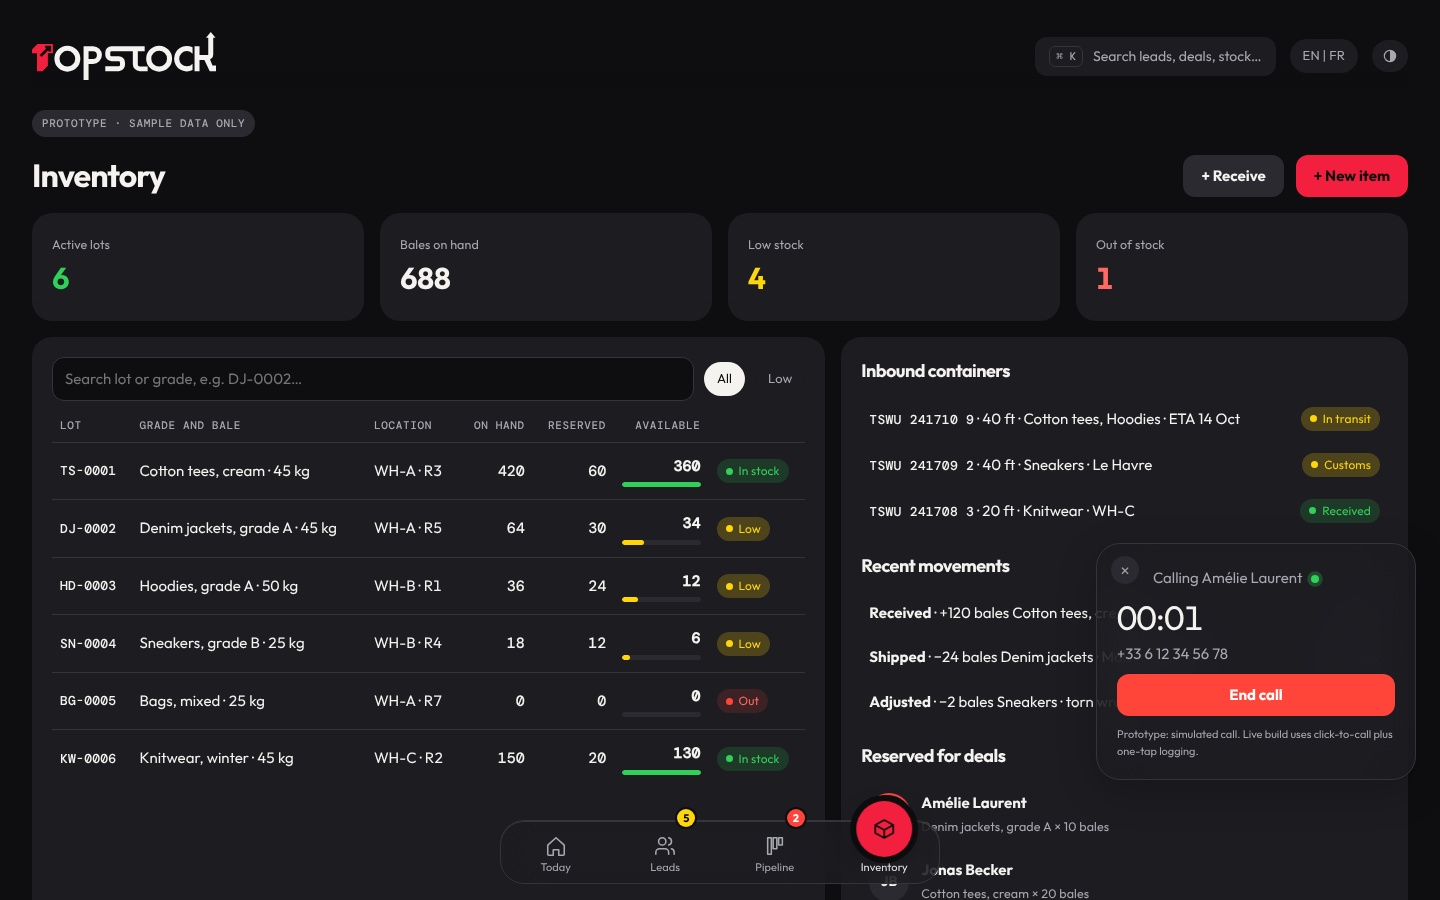
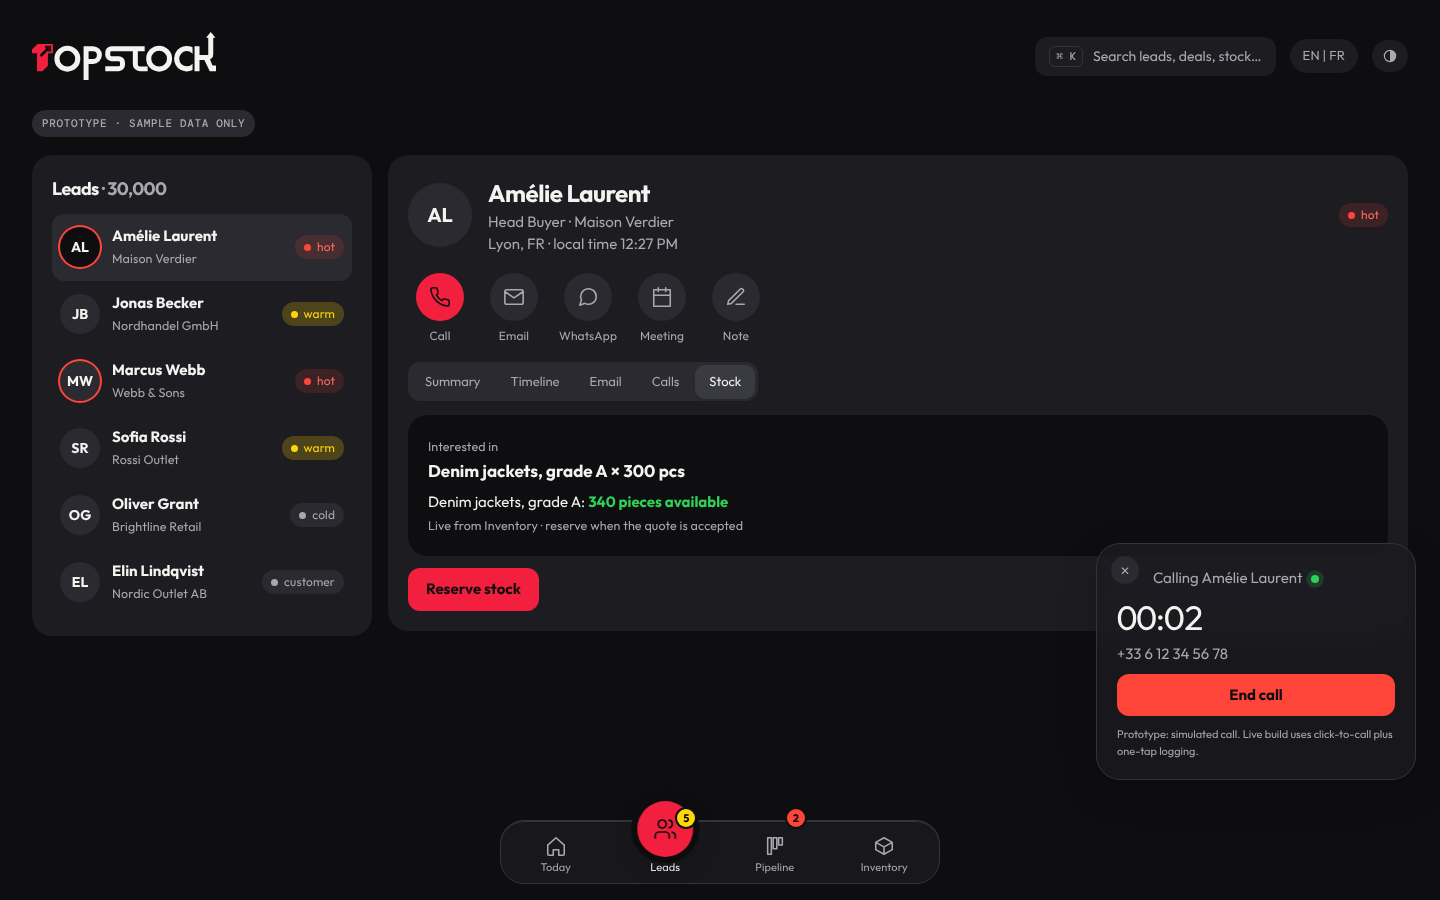
Prototype v4.2: stock sold by the piece, fresh evidence, Haider's brand decisions
Claude-Session: https://claude.ai/code/session_017iY13emXgm4frkkmSZrEnt

diff --git a/docs/prototype/topstock-crm-prototype.html b/docs/prototype/topstock-crm-prototype.html
@@ -253,7 +253,7 @@ td.n .sb{margin-left:auto}
 <div class="grid g4" id="ik" style="margin-bottom:16px"></div>
 <div class="grid g2">
 <div class="card"><div style="display:flex;gap:10px;align-items:center;margin-bottom:8px"><input id="q" name="stock-search" autocomplete="off" aria-label="Search lots" placeholder="Search lot or grade, e.g. DJ-0002…"><span class="chip on">All</span><span class="chip">Low</span></div>
-<div class="wrap"><table><thead><tr><th>Lot</th><th>Grade and bale</th><th>Location</th><th class="n">On hand</th><th class="n">Reserved</th><th class="n">Available</th><th></th></tr></thead><tbody id="rows"></tbody></table></div></div>
+<div class="wrap"><table><thead><tr><th>Lot</th><th>Product and grade</th><th>Location</th><th class="n">On hand</th><th class="n">Reserved</th><th class="n">Available</th><th></th></tr></thead><tbody id="rows"></tbody></table></div></div>
 <div class="card"><h2>Inbound containers</h2><div id="inb"></div>
 <h2 style="margin-top:18px">Recent movements</h2><div id="mv"></div>
 <h2 style="margin-top:18px">Reserved for deals</h2><div id="rs"></div></div>
@@ -300,12 +300,12 @@ $('#theme').onclick=()=>{const r=document.documentElement;r.classList.add('tt');
 function toast(m,u){const t=$('#toast');t.innerHTML=m+(u?'<button id="ud">Undo</button>':'');if(u)$('#ud').onclick=()=>{u();t.classList.remove('on')};t.classList.add('on');clearTimeout(t.h);t.h=setTimeout(()=>t.classList.remove('on'),u?4500:2200)}
 
 const L=[
-{n:'Amélie Laurent',r:'Head Buyer',c:'Maison Verdier',loc:'Lyon, FR',tz:'Europe/Paris',p:'+33 6 12 34 56 78',e:'amelie@maisonverdier.example',t:'hot',v:'€18,400',s:'Negotiations',want:'Denim jackets, grade A × 10 bales',d:3},
-{n:'Jonas Becker',r:'Einkauf',c:'Nordhandel GmbH',loc:'Hamburg, DE',tz:'Europe/Berlin',p:'+49 40 1234 5678',e:'j.becker@nordhandel.example',t:'warm',v:'€9,200',s:'Negotiations',want:'Cotton tees, cream × 20 bales',d:9,stale:1},
-{n:'Marcus Webb',r:'Buyer',c:'Webb & Sons',loc:'Dallas, US',tz:'America/Chicago',p:'+1 214 555 0142',e:'marcus@webbandsons.example',t:'hot',v:'€22,000',s:'Qualified',want:'Hoodies, grade A × 1 container',d:2,direct:1},
-{n:'Sofia Rossi',r:'Owner',c:'Rossi Outlet',loc:'Milan, IT',tz:'Europe/Rome',p:'+39 02 5550 0188',e:'sofia@rossioutlet.example',t:'warm',v:'€6,800',s:'Lead',want:'Sneakers, grade B × 6 bales',d:5},
-{n:'Oliver Grant',r:'Sourcing Lead',c:'Brightline Retail',loc:'Manchester, UK',tz:'Europe/London',p:'+44 161 555 0129',e:'o.grant@brightline.example',t:'cold',v:'€5,200',s:'Lead',want:'Bags, mixed × 8 bales',d:1},
-{n:'Elin Lindqvist',r:'Purchasing',c:'Nordic Outlet AB',loc:'Stockholm, SE',tz:'Europe/Stockholm',p:'+46 8 555 0199',e:'elin@nordicoutlet.example',t:'customer',v:'€11,900',s:'Closed/won',want:'Knitwear, winter × 4 bales',d:0}];
+{n:'Amélie Laurent',r:'Head Buyer',c:'Maison Verdier',loc:'Lyon, FR',tz:'Europe/Paris',p:'+33 6 12 34 56 78',e:'amelie@maisonverdier.example',t:'hot',v:'€18,400',s:'Negotiations',want:'Denim jackets, grade A × 300 pcs',d:3},
+{n:'Jonas Becker',r:'Einkauf',c:'Nordhandel GmbH',loc:'Hamburg, DE',tz:'Europe/Berlin',p:'+49 40 1234 5678',e:'j.becker@nordhandel.example',t:'warm',v:'€9,200',s:'Negotiations',want:'Cotton tees, grade A × 1,200 pcs',d:9,stale:1},
+{n:'Marcus Webb',r:'Buyer',c:'Webb & Sons',loc:'Dallas, US',tz:'America/Chicago',p:'+1 214 555 0142',e:'marcus@webbandsons.example',t:'hot',v:'€22,000',s:'Qualified',want:'Hoodies, grade A × 800 pcs',d:2,direct:1},
+{n:'Sofia Rossi',r:'Owner',c:'Rossi Outlet',loc:'Milan, IT',tz:'Europe/Rome',p:'+39 02 5550 0188',e:'sofia@rossioutlet.example',t:'warm',v:'€6,800',s:'Lead',want:'Sneakers, grade B × 150 pairs',d:5},
+{n:'Oliver Grant',r:'Sourcing Lead',c:'Brightline Retail',loc:'Manchester, UK',tz:'Europe/London',p:'+44 161 555 0129',e:'o.grant@brightline.example',t:'cold',v:'€5,200',s:'Lead',want:'Bags, mixed × 400 pcs',d:1},
+{n:'Elin Lindqvist',r:'Purchasing',c:'Nordic Outlet AB',loc:'Stockholm, SE',tz:'Europe/Stockholm',p:'+46 8 555 0199',e:'elin@nordicoutlet.example',t:'customer',v:'€11,900',s:'Closed/won',want:'Knitwear, winter × 250 pcs',d:0}];
 const tm=z=>new Date().toLocaleTimeString([], {timeZone:z,hour:'2-digit',minute:'2-digit'});
 const ini=n=>n.split(' ').map(x=>x[0]).join('');
 const TLs={};let sel=0,tab='Summary';
@@ -321,7 +321,7 @@ if(tab=='Summary')b.innerHTML=`${stp(l)}<div class="grid g2" style="grid-templat
 else if(tab=='Timeline')b.innerHTML=`<input id="nt" placeholder="Add a note…"><button class="btn" onclick="addNote()">Add note</button><div class="tl" style="margin-top:16px">${tl(sel).map(x=>`<div><b>${x[0]}</b> · ${x[1]}<br><small class="muted">${x[2]}</small></div>`).join('')}</div>`;
 else if(tab=='Email')b.innerHTML=`<p class="muted" style="margin:0 0 10px;font-size:.8125rem">Opens in your mail app and is logged to the timeline. No mailbox sync (no Google Workspace).</p><input value="${l.e}" readonly><input id="sub" value="Re: Price list"><textarea id="bd">Hi ${l.n.split(' ')[0]},\n\nYes, we can confirm availability. Sending the updated quote today.\n\nBest,\nHaider · TopStock Wholesale</textarea><button class="btn" onclick="sendMail()">Open in Mail and log</button>`;
 else if(tab=='Calls')b.innerHTML=`<div class="tl">${tl(sel).filter(x=>x[0]=='Call').map(x=>`<div><b>${x[0]}</b> · ${x[1]}<br><small class="muted">${x[2]}</small></div>`).join('')}</div><button class="btn" onclick="dial(this)">Call ${l.p}</button>`;
-else{const it=P.find(p=>l.want.startsWith(p.n.split(',')[0]))||P[1],a=it.h-it.r;b.innerHTML=`<div class="card" style="background:var(--bg)"><small class="muted">Interested in</small><div style="font-weight:600;font-size:1.0625rem">${l.want}</div><div style="margin-top:8px">${it.n}: <b class="${a>=10?'stock-ok':'stock-lo'}">${a} bales available</b></div><small class="muted">Live from Inventory · reserve when the quote is accepted</small></div>${l.direct?`<div class="card" style="background:var(--bg);margin-top:12px"><small class="muted">Fulfilment</small><div style="font-weight:600">Direct from source</div><small class="muted">Ships from the supplier to the client, not from our warehouse. No stock is reserved.</small></div>`:`<button class="btn" style="margin-top:12px" onclick="toast('Prototype: stock reserved for this deal')">Reserve stock</button>`}`}}
+else{const it=P.find(p=>l.want.startsWith(p.n.split(',')[0]))||P[1],a=it.h-it.r;b.innerHTML=`<div class="card" style="background:var(--bg)"><small class="muted">Interested in</small><div style="font-weight:600;font-size:1.0625rem">${l.want}</div><div style="margin-top:8px">${it.n}: <b class="${a>=10?'stock-ok':'stock-lo'}">${a.toLocaleString('en')} pieces available</b></div><small class="muted">Live from Inventory · reserve when the quote is accepted</small></div>${l.direct?`<div class="card" style="background:var(--bg);margin-top:12px"><small class="muted">Fulfilment</small><div style="font-weight:600">Direct from source</div><small class="muted">Ships from the supplier to the client, not from our warehouse. No stock is reserved.</small></div>`:`<button class="btn" style="margin-top:12px" onclick="toast('Prototype: stock reserved for this deal')">Reserve stock</button>`}`}}
 function pick(i){sel=i;tab='Summary';renderList();renderProf()}
 function setTab(t){tab=t;document.querySelectorAll('#tabs button').forEach(b=>b.classList.toggle('on',b.textContent==t));movePill(true);tabBody()}
 function addNote(){const v=$('#nt').value.trim();if(!v)return;const k=sel;tl(k).unshift(['Note',v,'Just now']);tabBody();toast('Note added',()=>{tl(k).shift();if(sel==k)tabBody()})}
@@ -342,12 +342,12 @@ $('#plost').textContent='Closed/lost this month: 2 · reasons: price (1), timing
 function flip(mut){const before=new Map([...document.querySelectorAll('#kan .kc')].map(e=>[e.dataset.i,e.getBoundingClientRect()]));mut();if(RM.matches)return;document.querySelectorAll('#kan .kc').forEach(e=>{const b=before.get(e.dataset.i);if(!b)return;const a=e.getBoundingClientRect(),dx=b.left-a.left,dy=b.top-a.top;if(dx||dy)e.animate([{transform:`translate(${dx}px,${dy}px)`},{transform:'none'}],{duration:450,easing:'cubic-bezier(.32,.72,0,1)'})})}
 function advance(i){const l=L[i],c=SG.indexOf(l.s);if(c<0||c>=SG.length-1)return;const prev=l.s;flip(()=>{l.s=SG[c+1];l.d=0;l.stale=0;renderKan()});if(sel==i)renderProf();toast(`${l.n.split(' ')[0]} moved to ${l.s}`,()=>{flip(()=>{l.s=prev;renderKan()});if(sel==i)renderProf()})}
 
-const P=[{n:'Cotton tees, cream · 45 kg',s:'TS-0001',loc:'WH-A · R3',h:420,r:60,lo:80},{n:'Denim jackets, grade A · 45 kg',s:'DJ-0002',loc:'WH-A · R5',h:64,r:30,lo:40},{n:'Hoodies, grade A · 50 kg',s:'HD-0003',loc:'WH-B · R1',h:36,r:24,lo:20},{n:'Sneakers, grade B · 25 kg',s:'SN-0004',loc:'WH-B · R4',h:18,r:12,lo:20},{n:'Bags, mixed · 25 kg',s:'BG-0005',loc:'WH-A · R7',h:0,r:0,lo:15},{n:'Knitwear, winter · 45 kg',s:'KW-0006',loc:'WH-C · R2',h:150,r:20,lo:30}];
+const P=[{n:'Cotton tees, grade A',s:'TS-0001',loc:'WH-A · R3',h:4200,r:600,lo:800},{n:'Denim jackets, grade A',s:'DJ-0002',loc:'WH-A · R5',h:640,r:300,lo:400},{n:'Hoodies, grade A',s:'HD-0003',loc:'WH-B · R1',h:360,r:240,lo:200},{n:'Sneakers, grade B',s:'SN-0004',loc:'WH-B · R4',h:180,r:120,lo:200},{n:'Bags, mixed',s:'BG-0005',loc:'WH-A · R7',h:0,r:0,lo:150},{n:'Knitwear, winter',s:'KW-0006',loc:'WH-C · R2',h:1500,r:200,lo:300}];
 function renderInv(){const f=($('#q').value||'').toLowerCase();
-$('#ik').innerHTML=[['Active lots',P.length,'ok'],['Bales on hand',P.reduce((a,p)=>a+p.h,0)],['Low stock',P.filter(p=>p.h-p.r<p.lo).length,'warm'],['Out of stock',P.filter(p=>p.h==0).length,'hot']].map(k=>`<div class="card kpi"><small>${k[0]}</small><b class="t-${k[2]||'n'}">${k[1]}</b></div>`).join('');
-$('#rows').innerHTML=P.filter(p=>(p.n+p.s).toLowerCase().includes(f)).map(p=>{const a=p.h-p.r,c=p.h==0?'no':a<p.lo?'lo':'ok',t=p.h==0?'Out':a<p.lo?'Low':'In stock';return`<tr><td class="code" translate="no">${p.s}</td><td>${p.n}</td><td>${p.loc}</td><td class="n">${p.h}</td><td class="n">${p.r}</td><td class="n"><b>${a}</b><div class="sb"><i style="width:${Math.min(100,a/(p.lo*3)*100)}%;background:var(--${c=='ok'?'ok':c=='lo'?'wa':'dg'})"></i></div></td><td><span class="badge ${c=='ok'?'ok':c=='lo'?'warm':'hot'}"><span class="dot"></span>${t}</span></td></tr>`}).join('')}
+$('#ik').innerHTML=[['Active lots',P.length,'ok'],['Pieces on hand',P.reduce((a,p)=>a+p.h,0).toLocaleString('en')],['Low stock',P.filter(p=>p.h-p.r<p.lo).length,'warm'],['Out of stock',P.filter(p=>p.h==0).length,'hot']].map(k=>`<div class="card kpi"><small>${k[0]}</small><b class="t-${k[2]||'n'}">${k[1]}</b></div>`).join('');
+$('#rows').innerHTML=P.filter(p=>(p.n+p.s).toLowerCase().includes(f)).map(p=>{const a=p.h-p.r,c=p.h==0?'no':a<p.lo?'lo':'ok',t=p.h==0?'Out':a<p.lo?'Low':'In stock';return`<tr><td class="code" translate="no">${p.s}</td><td>${p.n}</td><td>${p.loc}</td><td class="n">${p.h.toLocaleString('en')}</td><td class="n">${p.r.toLocaleString('en')}</td><td class="n"><b>${a.toLocaleString('en')}</b><div class="sb"><i style="width:${Math.min(100,a/(p.lo*3)*100)}%;background:var(--${c=='ok'?'ok':c=='lo'?'wa':'dg'})"></i></div></td><td><span class="badge ${c=='ok'?'ok':c=='lo'?'warm':'hot'}"><span class="dot"></span>${t}</span></td></tr>`}).join('')}
 $('#q').oninput=renderInv;
-$('#mv').innerHTML=[['Received','+120 bales Cotton tees, cream','Today'],['Shipped','−24 bales Denim jackets · Maison Verdier','Yesterday'],['Adjusted','−2 bales Sneakers · torn wrap','Mon']].map(x=>`<div class="row"><div style="flex:1"><b>${x[0]}</b> · ${x[1]}</div><small>${x[2]}</small></div>`).join('');
+$('#mv').innerHTML=[['Received','+1,200 pcs Cotton tees, grade A','Today'],['Shipped','−240 pcs Denim jackets · Maison Verdier','Yesterday'],['Adjusted','−6 pairs Sneakers · damaged','Mon']].map(x=>`<div class="row"><div style="flex:1"><b>${x[0]}</b> · ${x[1]}</div><small>${x[2]}</small></div>`).join('');
 $('#rs').innerHTML=L.slice(0,3).map(l=>`<div class="row" onclick="go(1);pick(${L.indexOf(l)});setTab('Stock')"><div class="av ${l.t}">${ini(l.n)}</div><div style="flex:1"><b>${l.n}</b><br><small>${l.want}</small></div>${l.direct?'<span class="badge"><span class="dot"></span>Direct from source</span>':''}</div>`).join('');
 $('#inb').innerHTML=[['TSWU 241710 9','40 ft · Cotton tees, Hoodies · ETA 14 Oct','In transit','warm'],['TSWU 241709 2','40 ft · Sneakers · Le Havre','Customs','warm'],['TSWU 241708 3','20 ft · Knitwear · WH-C','Received','ok']].map(x=>`<div class="row" onclick="toast('Prototype: opens container ${x[0]}')"><div style="flex:1"><b class="code" translate="no">${x[0]}</b> · ${x[1]}</div><span class="badge ${x[3]}"><span class="dot"></span>${x[2]}</span></div>`).join('');
 $('#hot').innerHTML=L.filter(l=>l.t=='hot').map(l=>`<div class="row" onclick="go(1);pick(${L.indexOf(l)})"><div class="av ${l.t}">${ini(l.n)}</div><div style="flex:1"><b>${l.n}</b><br><small>${l.c} · ${l.v}</small></div><small>${tm(l.tz)}</small></div>`).join('');
@@ -359,7 +359,7 @@ function count(el,a){const n=+el.dataset.n,p=el.dataset.p||'',t0=performance.now
 const PS=[['Lead',14,'var(--bd)'],['Qualified',9,'color-mix(in srgb,var(--wa) 50%,var(--s2))'],['Negotiations',6,'var(--wa)'],['Closed/won',4,'var(--ok)'],['Closed/lost',2,'var(--dg)']];
 function animHome(a){document.querySelectorAll('#v-home [data-n]').forEach(e=>count(e,a));document.querySelectorAll('#v-home .spark').forEach(e=>spark(e,a));$('#pbar').innerHTML=PS.map((s,i)=>`<i style="flex:${s[1]};background:${s[2]};${a?'animation-delay:'+i*70+'ms':'animation:none'}"></i>`).join('');$('#pleg').innerHTML=PS.map(s=>`<span><b style="background:${s[2]}"></b>${s[0]} <small>${s[1]}</small></span>`).join('')}
 const seen={};
-const EV=[['ok','Test bale confirmed','Amélie Laurent'],['hot','Quote expires in 2 days','Marcus Webb'],['warm','New lead from website','Oliver Grant'],['ok','Payment received €4,200','Nordhandel GmbH'],['hot','Stock low: Hoodies grade A, 2 deals waiting','Inventory'],['ok','TSWU 241710 9 cleared customs','Inventory']];let ei=0;
+const EV=[['ok','Sample order confirmed','Amélie Laurent'],['hot','Quote expires in 2 days','Marcus Webb'],['warm','New lead from website','Oliver Grant'],['ok','Payment received €4,200','Nordhandel GmbH'],['hot','Stock low: Hoodies grade A, 2 deals waiting','Inventory'],['ok','TSWU 241710 9 cleared customs','Inventory']];let ei=0;
 function feedAdd(old){const e=EV[ei++%EV.length];if(!old&&!(cur==0&&!document.hidden))return;
 const d=document.createElement('div'),f=$('#feed'),g=e[0]=='ok'?'✓':e[0]=='hot'?'!':'+';d.className='row'+(old?'':' fi');d.innerHTML=`<span class="badge ${e[0]}" style="width:26px;height:26px;padding:0;justify-content:center;font-weight:700" aria-hidden="true">${g}</span><div style="flex:1"><b>${e[1]}</b><br><small>${e[2]}</small></div><small>${old?'Earlier':'Just now'}</small>`;const kids=[...f.children];f.prepend(d);if(!old&&!RM.matches){const h=d.offsetHeight;kids.forEach(k=>k.animate([{transform:`translateY(${-h}px)`},{transform:'none'}],{duration:450,easing:'cubic-bezier(.32,.72,0,1)'}))}while(f.children.length>4)f.lastChild.remove()}
 for(let i=0;i<3;i++)feedAdd(1);setInterval(()=>feedAdd(0),12000);

diff --git a/docs/evidence/prototype-v4/audit.md b/docs/evidence/prototype-v4/audit.md
@@ -1,6 +1,6 @@
 # CRM prototype v4: brand pack applied (7 Oct 2026)
 
-Artifact: https://claude.ai/artifact/3ppCxqmfgKHs5uRidvcNv6 (version 4). Source: `docs/prototype/topstock-crm-prototype.html`.
+Artifact: https://claude.ai/artifact/3ppCxqmfgKHs5uRidvcNv6 (version 5). Source: `docs/prototype/topstock-crm-prototype.html`.
 Brand source: TopStock Brand Pack v9 (essentials copied to `docs/brand/`: README, tokens, logo SVGs, fonts with OFL licence).
 This is the throwaway prototype, not the Next.js app. The app gets these choices through `DESIGN.md` on Day 1.
 
@@ -12,9 +12,9 @@ This is the throwaway prototype, not the Next.js app. The app gets these choices
 - **Type:** Outfit Regular 400 and Bold 700 only, the two weights the brand ships (-3% tracking on headings), DM Mono Medium (column heads, lot codes, container numbers, table numbers).
 - **Logo:** the two PNG logos (about 45 KB of base64) replaced by the inline vector primary lockup (mark as the t). Mark always Signal Red,
   word follows the text colour, so one file serves light and dark. Width 184 px desktop, 180 px phone (brand minimum 180 px).
-- **Sample data in the brand's units:** graded bales with weight (for example "Denim jackets, grade A · 45 kg"), lot codes,
+- **Sample data:** sold by the piece (Haider, 7 Oct 2026), with grades (for example "Denim jackets, grade A × 300 pcs"), lot codes,
   container numbers in the ISO 6346 shape the brand pack uses (TSWU 241708 3). All invented and labelled sample data.
-- **Voice:** tagline "Small start. Same grade. Big orders." closes the Today screen. "Sample order" became "Test bale".
+- **Voice:** tagline "Small start. Same grade. Big orders." closes the Today screen.
 
 ## Apple design audit (docs/apple-design-audit.md, 12 items)
 
@@ -45,22 +45,20 @@ unused `--redt` token removed; logo SVG no longer has both `role="img"` and `ari
 
 ## Checks
 
-- Screenshots in this folder: 1440 light and dark (all four screens), 1280, 768 and 1728 in French, 390 phone light and French dark.
+- Screenshots in this folder (25, all retaken on version 5, after the advisor fixes): 1440 light and dark (all four screens, call panel
+  light and dark, lead Stock tab), Today and Inventory at 390, 768, 1024, 1280 and 1728 light, Today and Leads at 390 and 1280 in French dark.
   Fonts loaded from the brand pack files (Google Fonts is not on this VM's network list; the published page loads the same 400/700 weights from Google Fonts).
 - Browser: the VM's preinstalled Chromium 1194 through a scratch config, not the pinned 1247 build (missing in this VM). WebKit was not run.
-- 1024 was not captured by the builder. Layout changes only at 900 px and below; the advisor's own run at 1024 showed no overflow.
-- No horizontal scroll at 390 on any screen (scrollWidth 390). Found and fixed on the way: the search box showed on phones and pushed
+- No horizontal scroll at any captured width (scrollWidth equals the viewport at 390, 768, 1024, 1280, 1728). Found and fixed on the way: the search box showed on phones and pushed
   the page to 551 px; the inventory buttons wrapped; the stock tiles stacked one per row; the stock table squeezed the grade column.
 - Console: no errors except the local server's missing favicon.
 - No em dashes in the page.
 
-## Open points (Haider decides)
+## Decisions (Haider, 7 Oct 2026)
 
-1. **Brand vs current design rules (palette and fonts).** CLAUDE.md and the Master Plan say black, white and greys with pure white / pure black
-   backgrounds and the system font stack (Master Plan lines 137 and 169, apple-design-audit item 10). The prototype uses the brand palette
-   and Outfit + DM Mono. Recommendation: adopt both; in the app, self-host the fonts through next/font (no runtime Google Fonts request,
-   which keeps the CSP tight and avoids sending visitor IPs to Google), only the weights the brand ships. If approved, Day 1's `DESIGN.md`,
-   the CLAUDE.md design line and audit item 10 change to match.
-2. **Products.** The brand pack describes graded second-hand clothing in bales; the sample data now uses bales, grades and kg.
-   Correct this if your stock is sold differently.
-3. French covers headings and the dock only, as before; full EN/FR comes with next-intl in the real build.
+1. **Brand palette and fonts adopted for the real app.** CLAUDE.md and the Master Plan still say black, white and greys and the system
+   font stack (Master Plan lines 137 and 169, apple-design-audit item 10); Day 1's `DESIGN.md`, the CLAUDE.md design line and audit
+   item 10 change to match. Fonts are self-hosted through next/font (no runtime Google Fonts request), only Outfit 400/700 and DM Mono 500.
+2. **Stock is sold by the piece.** Sample data changed from bales to pieces (pairs for sneakers). Inventory counts pieces.
+
+French still covers headings and the dock only; full EN/FR comes with next-intl in the real build.

diff --git a/docs/log.md b/docs/log.md
@@ -24,3 +24,5 @@
 | 2026-10-07 | Haider | Brand pack v9 supplied (TopStock Black / Signal Red / Chalk White, Outfit + DM Mono, block-T lockup). Asked for the CRM prototype in the brand, then an `/apple-design` audit |
 | 2026-10-07 | builder | Prototype v4 published to the same artifact link. Signal Red is the single accent (dock bead, Call, primary buttons, mark); statuses keep their CLAUDE.md tokens and labels. Brand essentials saved in `docs/brand/`; audit and screenshots in `docs/evidence/prototype-v4/`. Open for Haider: adopt the brand palette and fonts in DESIGN.md/CLAUDE.md (they still say black/white/greys and the system font stack; recommended: yes, fonts self-hosted via next/font), and confirm bales/grades as the product units |
 | 2026-10-07 | builder | Advisor round 1 on prototype v4: CHANGES NEEDED (small white text on red, prefers-contrast override lost, font conflict not surfaced, evidence gaps, README em dash, unused token, logo ARIA). All fixed; artifact republished as version 4 |
+| 2026-10-07 | Haider | Decisions: (1) the real app adopts the brand palette and fonts (Outfit 400/700, DM Mono 500, self-hosted via next/font); DESIGN.md, the CLAUDE.md design line and apple-design-audit item 10 to be updated on Day 1. (2) Stock is sold by the piece, not in bales or cartons |
+| 2026-10-07 | builder | Prototype version 5: sample stock in pieces; all 25 evidence screenshots retaken after the advisor round-1 fixes (advisor round 2 had found them stale), now including 1024 |
